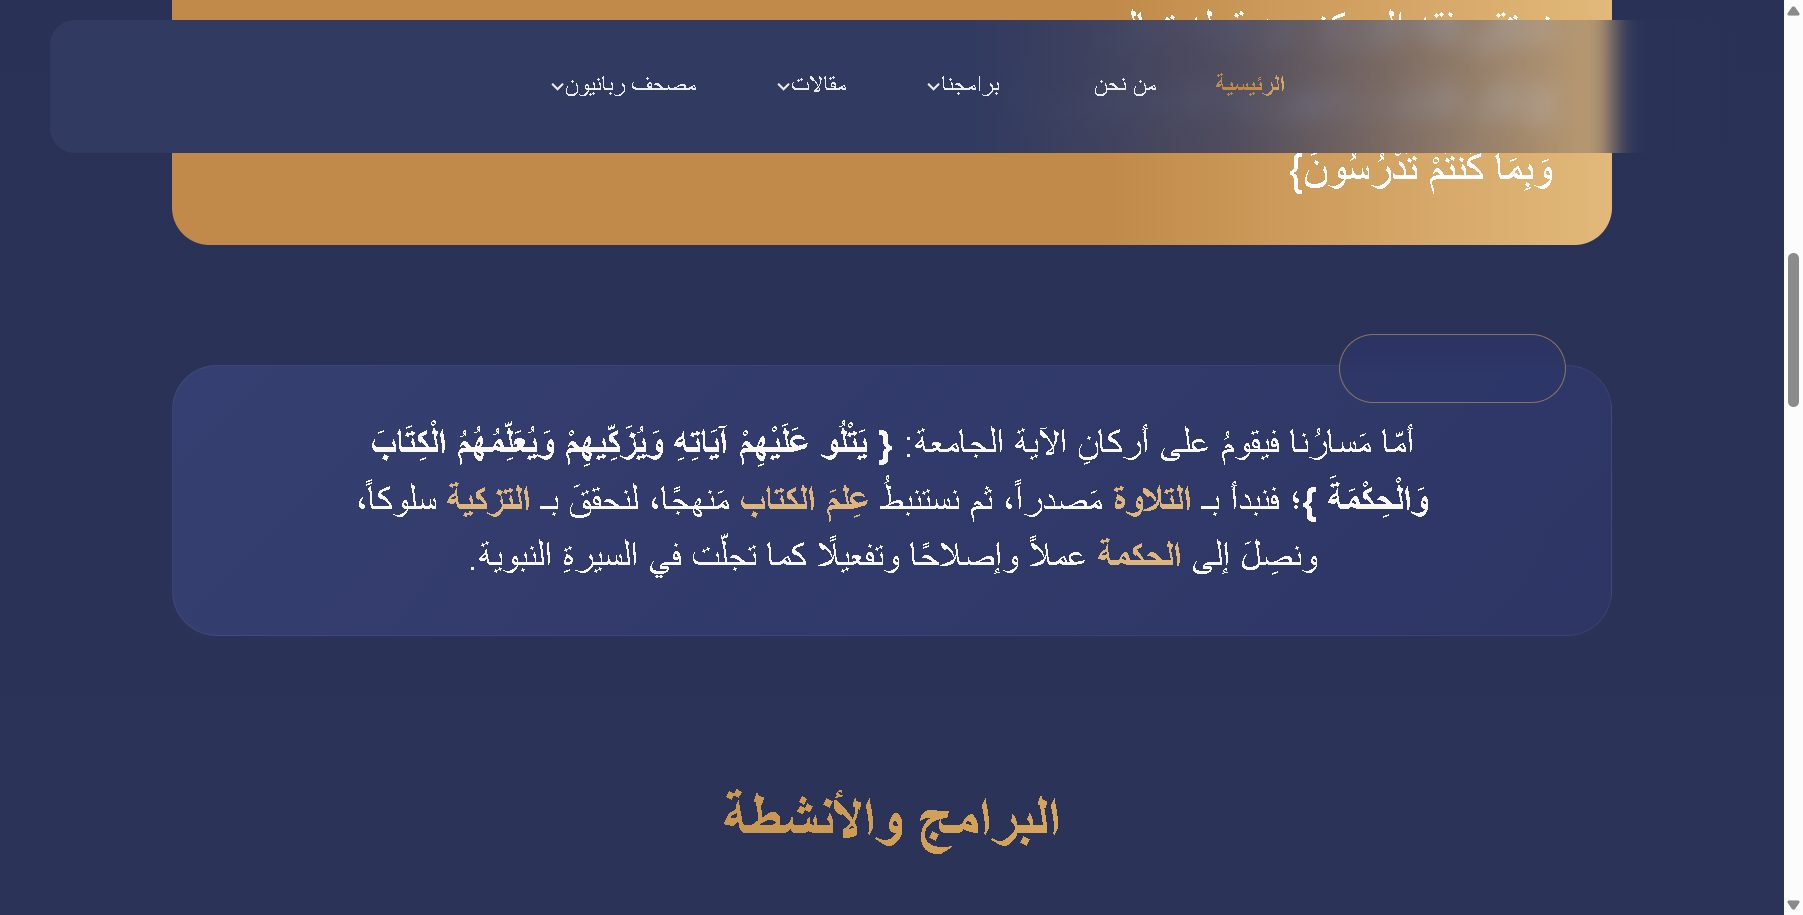
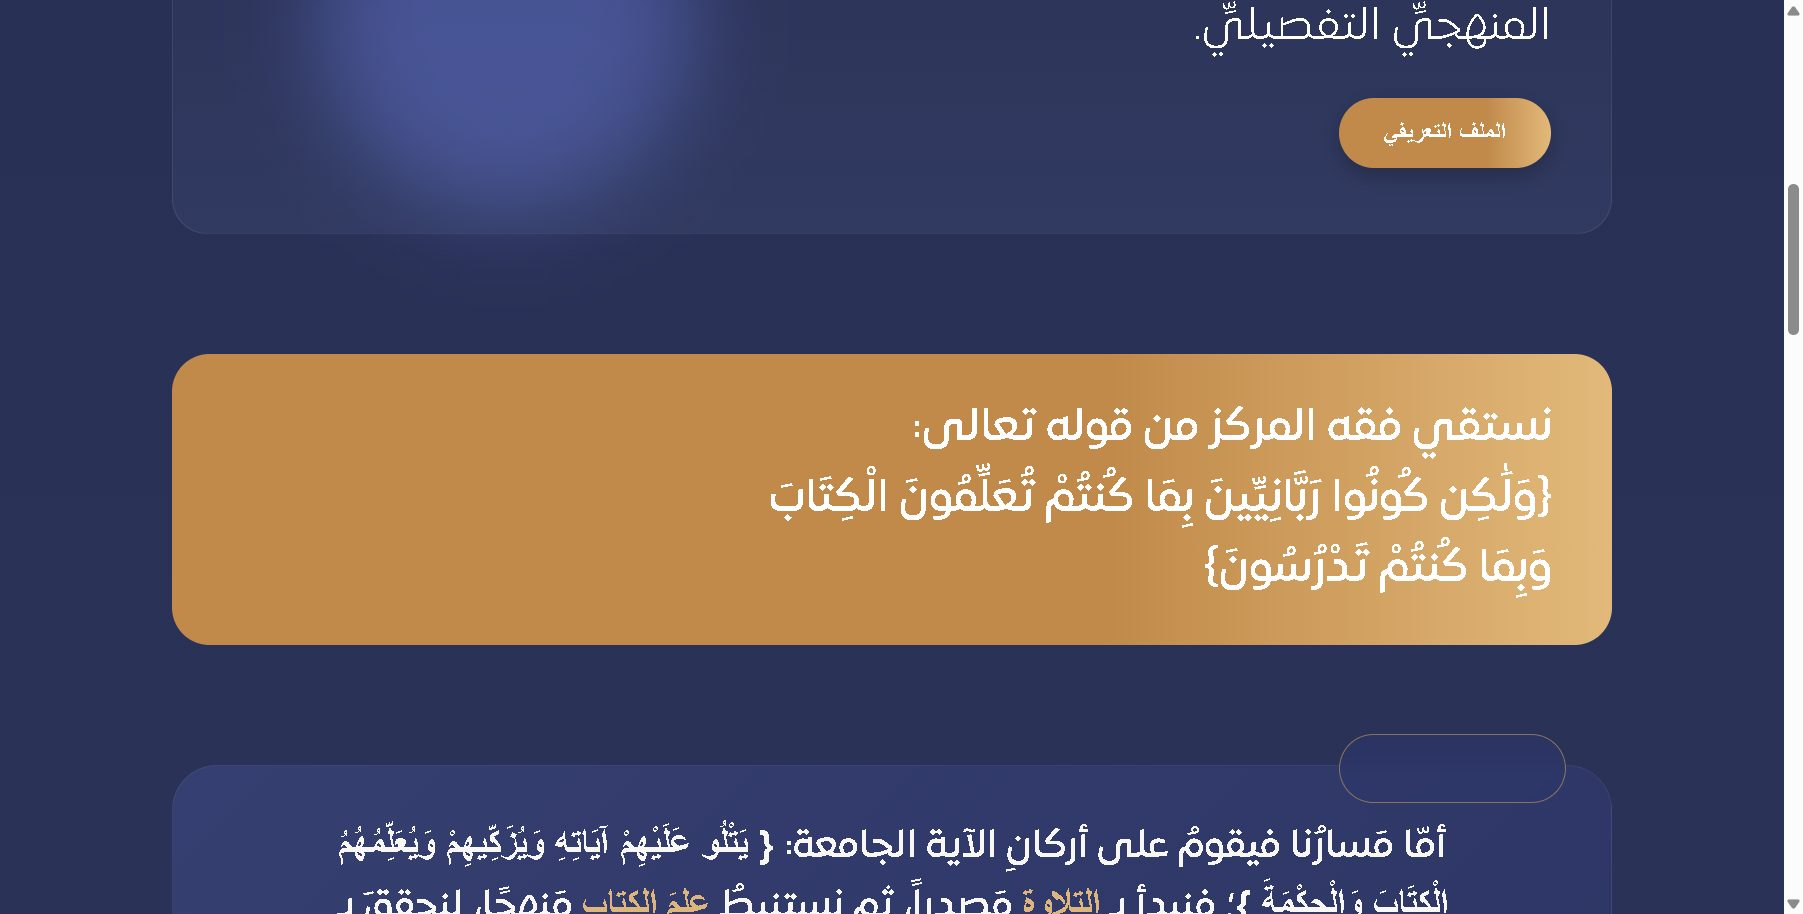
Rabbanioon: three clean screenshots; header start button now clickable and hoverable

diff --git a/src/data/projects.ts b/src/data/projects.ts
@@ -169,10 +169,14 @@ const GALLERY: Record<string, string[]> = {
         "/images/projects/wird-3.jpeg",
     ],
     "https://rpanyon.com/": [
+        "/images/projects/rabbanioon-1.jpeg",
         "/images/projects/rabbanioon-2.jpeg",
         "/images/projects/rabbanioon-3.jpeg",
     ],
 };
+
+/* old covers replaced by the screenshots above: not shown any more */
+const RETIRED = new Set(["/images/projects/rabbanioon.jpg"]);
 
 /* covers that are only a sign-in screen: kept, but shown last */
 const WEAK_COVERS = new Set(["/images/projects/novasales.png", "/images/projects/university-system.png"]);
@@ -186,7 +190,7 @@ export function withGallery(p: Project): Project {
     if (!extra) return p;
     const bundled = (src: string) => src.startsWith("/images/projects/");
     const uploaded = p.images.filter((src) => !bundled(src));
-    const older = p.images.filter((src) => bundled(src) && !extra.includes(src));
+    const older = p.images.filter((src) => bundled(src) && !extra.includes(src) && !RETIRED.has(src));
     return {
         ...p,
         images: [

diff --git a/src/components/layout/Navbar.tsx b/src/components/layout/Navbar.tsx
@@ -414,6 +414,8 @@ function StartButton({ onClick, full = false }: { onClick?: () => void; full?: b
       onClick={onClick}
       endIcon={<Arrow />}
       sx={{
+        // the header ignores the pointer so the page stays clickable around the islands
+        pointerEvents: "auto",
         position: "relative",
         overflow: "hidden",
         height: full ? 56 : { xs: 52, md: 56 },
